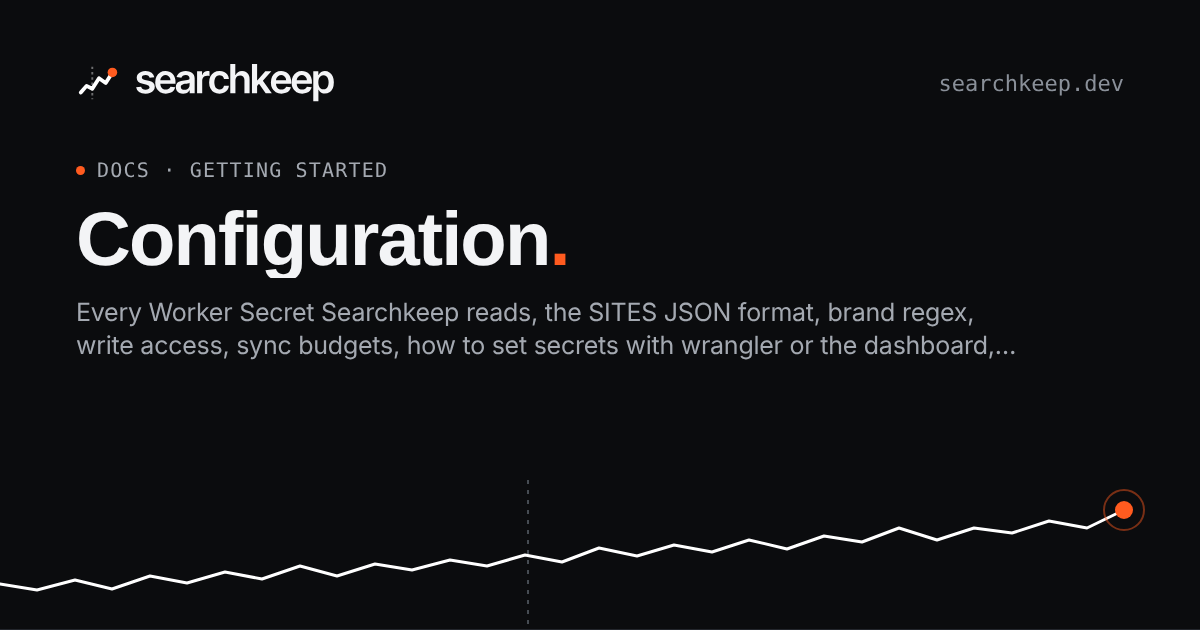
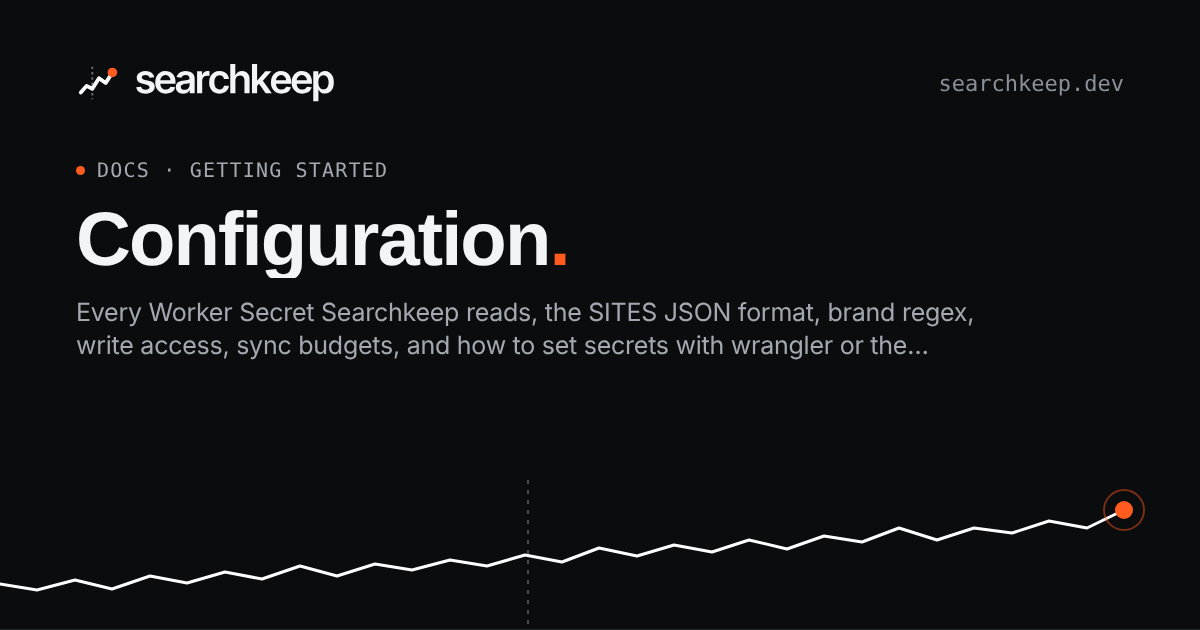
Website: tighten basic SEO (structured data, robots, descriptions) (#51)
- Every indexable page gets a WebPage node (TechArticle for docs) in its
  JSON-LD, linked to the WebSite and Organization nodes.
- Indexable pages allow large image previews and full snippets; noindex
  pages (404) no longer declare a canonical.
- Home, Configuration and Data sources descriptions fit in 160 characters;
  their OG cards are re-rendered.
- SoftwareApplication featureList counts MCP tools from the tool list
  instead of a stale "14", and mentions app store analytics.
- Web manifest gains id, scope, lang and dir.

Claude-Session: https://claude.ai/code/session_017vVwuviS7SWWz8PGJDWwxs

Changed region(s): [[0.3392, 0.5127, 0.8325, 0.573]]

diff --git a/apps/site/src/lib/components/Seo.svelte b/apps/site/src/lib/components/Seo.svelte
@@ -1,6 +1,6 @@
 <script lang="ts">
   import { SITE, absolute } from '../site';
-  import { graph } from '../schema';
+  import { graph, organization, website, webPage } from '../schema';
   import { ogImagePath } from '../og';
 
   let {
@@ -24,13 +24,31 @@
   // Every indexable page has its own OG card (static/og/, rendered by scripts/render-assets.mjs).
   const image = $derived(`${SITE.origin}${ogImagePath(path)}`);
   const imageAlt = $derived(title === SITE.name ? `${SITE.name}: ${SITE.tagline}` : `${title} · ${SITE.name}`);
+  // Every indexable page carries its own WebPage node, linked to the WebSite and Organization
+  // nodes (added here when the page did not include them, so the @id references resolve).
+  const nodes = $derived.by(() => {
+    if (noindex) return jsonld;
+    const ids = new Set(jsonld.map((n) => n['@id']));
+    return [
+      ...(ids.has(organization['@id']) ? [] : [organization]),
+      ...(ids.has(website['@id']) ? [] : [website]),
+      webPage({ path, title: fullTitle, description, image, type }),
+      ...jsonld,
+    ];
+  });
 </script>
 
 <svelte:head>
   <title>{fullTitle}</title>
   <meta name="description" content={description} />
-  <link rel="canonical" href={url} />
-  {#if noindex}<meta name="robots" content="noindex" />{/if}
+  {#if noindex}
+    <!-- A noindex page has no canonical: the two signals would contradict each other. -->
+    <meta name="robots" content="noindex, follow" />
+  {:else}
+    <link rel="canonical" href={url} />
+    <!-- Allow large image previews and full snippets in search results and Discover. -->
+    <meta name="robots" content="index, follow, max-image-preview:large, max-snippet:-1, max-video-preview:-1" />
+  {/if}
 
   <meta property="og:type" content={type} />
   <meta property="og:site_name" content={SITE.name} />
@@ -50,7 +68,7 @@
   <meta name="twitter:image" content={image} />
   <meta name="twitter:image:alt" content={imageAlt} />
 
-  {#if jsonld.length}
-    {@html `<script type="application/ld+json">${graph(jsonld)}</` + 'script>'}
+  {#if nodes.length}
+    {@html `<script type="application/ld+json">${graph(nodes)}</` + 'script>'}
   {/if}
 </svelte:head>

diff --git a/apps/site/src/lib/schema.ts b/apps/site/src/lib/schema.ts
@@ -1,5 +1,5 @@
 import { SITE, absolute } from './site';
-import type { Faq } from './content';
+import { READ_ONLY_TOOLS, TOOLS, type Faq } from './content';
 
 type Json = Record<string, unknown>;
 
@@ -44,11 +44,37 @@ export const softwareApplication: Json = {
   featureList: [
     'GEO funnel per page: crawled by AI, cited by AI, clicked from AI',
     'Unlimited history beyond the 16 months kept by Google Search Console',
-    'MCP server with 14 read-only analysis tools and one opt-in write',
+    `MCP server with ${READ_ONLY_TOOLS.length} read-only analysis tools and ${TOOLS.length - READ_ONLY_TOOLS.length} opt-in writes`,
     'Dashboard for Google Search Console, Bing Webmaster Tools and Cloudflare data',
+    'App store analytics for your own iOS and Android apps (App Store Connect, Google Play Console)',
     'Self-hosted in your own Cloudflare account, protected by Cloudflare Access',
   ],
 };
+
+/**
+ * The page itself: a WebPage (or a TechArticle for docs), tied to the WebSite node so search engines
+ * see one connected graph. Added to every page by the Seo component.
+ */
+export function webPage(page: { path: string; title: string; description: string; image: string; type: 'website' | 'article' }): Json {
+  const url = absolute(page.path);
+  const node: Json = {
+    '@type': page.type === 'article' ? ['WebPage', 'TechArticle'] : 'WebPage',
+    '@id': `${url}#webpage`,
+    url,
+    name: page.title,
+    description: page.description,
+    inLanguage: 'en',
+    isPartOf: { '@id': `${SITE.origin}/#website` },
+    primaryImageOfPage: { '@type': 'ImageObject', url: page.image, width: 1200, height: 630 },
+    dateModified: SITE.lastUpdated,
+  };
+  if (page.type === 'article') {
+    node.headline = page.title;
+    node.author = { '@id': `${SITE.origin}/#organization` };
+    node.publisher = { '@id': `${SITE.origin}/#organization` };
+  }
+  return node;
+}
 
 export function faqPage(faqs: Faq[], path: string): Json {
   return {

diff --git a/apps/site/src/lib/docs.ts b/apps/site/src/lib/docs.ts
@@ -65,7 +65,7 @@ export const DOCS: DocSection[] = [
         path: '/docs/configuration',
         title: 'Configuration',
         description:
-          'Every Worker Secret Searchkeep reads, the SITES JSON format, brand regex, write access, sync budgets, how to set secrets with wrangler or the dashboard, and local development.',
+          'Every Worker Secret Searchkeep reads, the SITES JSON format, brand regex, write access, sync budgets, and how to set secrets with wrangler or the dashboard.',
         toc: [
           { id: 'where-config-lives', title: 'Where configuration lives' },
           { id: 'secrets', title: 'Secrets reference' },
@@ -105,7 +105,7 @@ export const DOCS: DocSection[] = [
         path: '/docs/data-sources',
         title: 'Data sources',
         description:
-          'What Searchkeep pulls from Google Search Console, Bing Webmaster Tools and Cloudflare, the credentials each needs, how syncing works, how AI citations are imported and every known limitation.',
+          'What Searchkeep pulls from Google Search Console, Bing, Cloudflare and the app stores, the credentials each needs, how syncing works and every known limitation.',
         toc: [
           { id: 'overview', title: 'Overview' },
           { id: 'sync', title: 'How syncing works' },

diff --git a/apps/site/src/routes/+page.svelte b/apps/site/src/routes/+page.svelte
@@ -74,7 +74,7 @@
 
 <Seo
   title={SITE.name}
-  description="Self-hosted SEO & GEO analytics in your own Cloudflare account. See which pages AI crawlers read, cite and send clicks to, keep your search history forever, and ask about it over MCP."
+  description="Self-hosted SEO & GEO analytics in your Cloudflare account. See which pages AI crawlers read, cite and send clicks to, keep your history forever, ask over MCP."
   path="/"
   {jsonld}
 />

diff --git a/CHANGELOG.md b/CHANGELOG.md
@@ -284,6 +284,12 @@ Because users sync `main` at any time, the `Unreleased` section is always accura
 
 ### Changed
 
+- Website SEO: every page now carries a `WebPage` node (`TechArticle` for docs) linked to the
+  site's `WebSite` and `Organization` nodes in its JSON-LD, and a robots meta that allows large
+  image previews and full snippets. The 404 page no longer declares a canonical next to its
+  `noindex`. The home, Configuration and Data sources descriptions fit in 160 characters (their
+  Open Graph cards are re-rendered), the structured data counts MCP tools from the tool list
+  instead of a stale "14", and the web manifest has an `id`, `scope` and `lang`.
 - An app's **Territories** table shows installs instead of conversion when Google Play is in view,
   with the full country name on hover. Google groups the store listing visitors and acquisitions of
   countries with few users into **Other (grouped)**; the card says so, and installs by country
